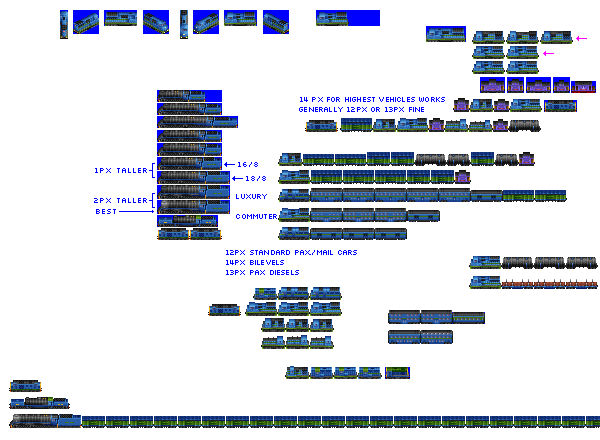
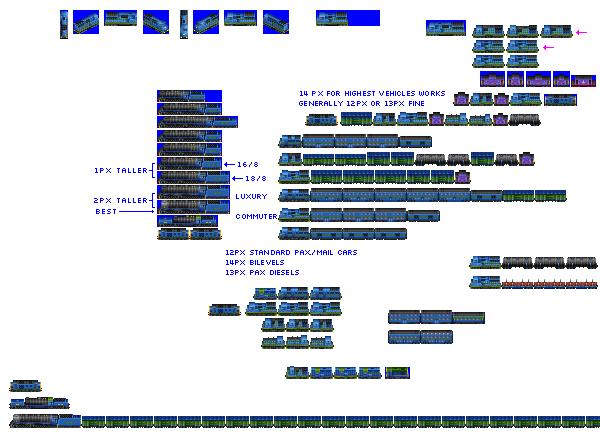
Change: progress on Moose roster

Changed region(s): [[0.45, 0.0295, 1.0, 0.3545]]

diff --git a/src/docs_templates/local_docs_root.html b/src/docs_templates/local_docs_root.html
@@ -3,7 +3,7 @@
 <ul>
     <li style="padding:10px;"><a href="iron-horse/html/tech_tree_table_red.html">Horse Tech Tree</a></li>
     <li style="padding:10px;"><a href="iron-ibex/html/tech_tree_table_red.html">Ibex Tech Tree</a></li>
-    <li style="padding:10px;"><a href="iron-ibex/html/tech_tree_table_red.html">Moose Tech Tree</a></li>
+    <li style="padding:10px;"><a href="iron-moose/html/tech_tree_table_red.html">Moose Tech Tree</a></li>
 </ul>
 </body>
 </html>

diff --git a/src/rosters/moose.py b/src/rosters/moose.py
@@ -4,17 +4,19 @@ from roster import Roster
 engine_module_names = [
     # challenger, # for NA roster
     # branch express
-    # foo,
+    "f40ph",
     # express (electro-diesels with non-standard position in power/length tree)
     # foo,
     # express
-    # foo,
+    "sdp40f",
+    "u28cg",
     # driving cab cars
     # foo,
     # branch freight
     "niagra",
     # freight
-    # foo,
+    "sd45",
+    "u36c",
     # joker engines / snowploughs
     "snowplough_moose_gen_2",
     # cargo sprinter
@@ -52,14 +54,13 @@ def main():
         str_grf_name="Iron Moose",
         # ELRL, ELNG is mapped to RAIL, NG etc
         # default intro dates per generation, can be over-ridden if needed by setting intro_year kw on consist
+        # Moose RAIL runs 10 years later than Horse, and is pinned to IRL UP Big Boy (1940) and UP Centennial (1970)
         intro_years={
-            "RAIL": [1860, 1900, 1930, 1960, 1990, 2020],
+            "RAIL": [1860, 1910, 1940, 1970, 2000, 2030],
             "METRO": [1900, 1950, 2000],
             "NG": [1860, 1905, 1950, 2000],
         },
         # default speeds per generation, can be over-ridden if needed by setting speed kw arg on consist
-        # speeds roughly same as RH trucks of same era + 5mph or so, and a bit higher at the top end (back and forth on this many times eh?),
-        # NG is Corsican-style 1000mm, native brit NG is not a thing for gameplay
         speeds={
             "RAIL": {
                 # gen 5 and 6 held down by design, really fast freight is imbalanced
@@ -73,19 +74,27 @@ def main():
                 ],
                 # match standard, except gen 6
                 "suburban": [45, 45, 60, 75, 87, 99],
-                # smaller steps in gen 5 and 6, balances against faster HSTs
+                # smaller steps in gen 5 and 6, balances against faster High Speed Rail
                 "express": [
                     60,
                     75,
                     90,
                     105,
-                    115,
-                    125,
+                    120,
+                    120,
                 ],
-                "hst": [0, 0, 0, 112, 125, 125],
-                "hst_on_lgv": [0, 0, 0, 112, 125, 140],
-                "very_high_speed": [0, 0, 0, 0, 125, 125],
-                "very_high_speed_on_lgv": [0, 0, 0, 0, 140, 186],
+                "express_on_lgv": [
+                    0,
+                    0,
+                    0,
+                    0,
+                    140,
+                    140,
+                ],
+                "hst": [0, 0, 0, 112, 128, 128],
+                "hst_on_lgv": [0, 0, 0, 0, 140, 140],
+                "very_high_speed": [0, 0, 0, 0, 128, 128],
+                "very_high_speed_on_lgv": [0, 0, 0, 0, 155, 186],
             },
             "METRO": {
                 "standard": [45, 55, 65]
@@ -95,14 +104,14 @@ def main():
                 "standard": [
                     45,
                     45,
-                    55,
-                    65,
+                    60,
+                    60,
                 ],
                 # NG standard/suburban/express same in Pony, balanced against trams, RVs
                 # suburban has to be provided as the mail railcar expects it, just copying it in is easiest solution
-                "suburban": [45, 45, 55, 65],
-                # suburban has to be provided as the coaches/mail vans etc expect it, just copying it in is easiest solution
-                "express": [45, 45, 55, 65],
+                "suburban": [45, 45, 60, 75],
+                # NG express breaks from standard in gen 4
+                "express": [45, 45, 60, 75],
             },
         },
         # capacity factor per generation, will be multiplied by vehicle length

diff --git a/src/vehicles/moose/f40ph.py b/src/vehicles/moose/f40ph.py
@@ -1,0 +1,30 @@
+from train import EngineConsist, DieselEngineUnit
+
+
+def main(roster_id, **kwargs):
+    consist = EngineConsist(
+        roster_id=roster_id,
+        id="f40ph",
+        base_numeric_id=22010,
+        name="F40PH",
+        role="branch_express",
+        role_child_branch_num=1,
+        power_by_power_source={
+            "DIESEL": 1800,
+        },
+        random_reverse=True,
+        fixed_run_cost_points=140,  # substantial cost bonus as a mixed traffic engine
+        gen=4,
+        # note that livery names are metadata only and can repeat for different spriterows
+        additional_liveries=[],
+        sprites_complete=False,
+    )
+
+    consist.add_unit(
+        type=DieselEngineUnit, weight=110, vehicle_length=6, spriterow_num=0
+    )
+
+    consist.description = """"""
+    consist.foamer_facts = """"""
+
+    return consist

diff --git a/src/vehicles/moose/sd45.py b/src/vehicles/moose/sd45.py
@@ -1,0 +1,33 @@
+from train import EngineConsist, DieselEngineUnit
+
+
+def main(roster_id, **kwargs):
+    consist = EngineConsist(
+        roster_id=roster_id,
+        id="sd45",
+        base_numeric_id=22020,
+        name="SD45",
+        role="super_heavy_freight",
+        role_child_branch_num=-2,
+        power_by_power_source={
+            "DIESEL": 3600,  # first high HP diesel in this roster??
+        },
+        random_reverse=True,
+        gen=4,
+        # note that livery names are metadata only and can repeat for different spriterows
+        additional_liveries=[],
+        sprites_complete=False,
+    )
+
+    consist.add_unit(
+        type=DieselEngineUnit,
+        weight=160,
+        vehicle_length=8,
+    )
+
+    consist.description = """"""
+    consist.foamer_facts = (
+        """"""
+    )
+
+    return consist

diff --git a/src/vehicles/moose/u36c.py b/src/vehicles/moose/u36c.py
@@ -1,0 +1,33 @@
+from train import EngineConsist, DieselEngineUnit
+
+
+def main(roster_id, **kwargs):
+    consist = EngineConsist(
+        roster_id=roster_id,
+        id="u36c",
+        base_numeric_id=22030,
+        name="U36C",
+        role="super_heavy_freight",
+        role_child_branch_num=-3,
+        power_by_power_source={
+            "DIESEL": 3600,  # first high HP diesel in this roster??
+        },
+        random_reverse=True,
+        gen=4,
+        # note that livery names are metadata only and can repeat for different spriterows
+        additional_liveries=[],
+        sprites_complete=False,
+    )
+
+    consist.add_unit(
+        type=DieselEngineUnit,
+        weight=160,
+        vehicle_length=8,
+    )
+
+    consist.description = """"""
+    consist.foamer_facts = (
+        """"""
+    )
+
+    return consist

diff --git a/src/vehicles/moose/u28cg.py b/src/vehicles/moose/u28cg.py
@@ -1,0 +1,33 @@
+from train import EngineConsist, DieselEngineUnit
+
+
+def main(roster_id, **kwargs):
+    consist = EngineConsist(
+        roster_id=roster_id,
+        id="u28cg",
+        base_numeric_id=22050,
+        name="u28cg / u30gc",
+        role="heavy_express",
+        role_child_branch_num=-3,
+        power_by_power_source={
+            "DIESEL": 2800, # nerfed to account for HEP
+        },
+        random_reverse=True,
+        gen=4,
+        # note that livery names are metadata only and can repeat for different spriterows
+        additional_liveries=[],
+        sprites_complete=False,
+    )
+
+    consist.add_unit(
+        type=DieselEngineUnit,
+        weight=160,
+        vehicle_length=8,
+    )
+
+    consist.description = """"""
+    consist.foamer_facts = (
+        """"""
+    )
+
+    return consist

diff --git a/src/vehicles/moose/sdp40f.py b/src/vehicles/moose/sdp40f.py
@@ -1,0 +1,33 @@
+from train import EngineConsist, DieselEngineUnit
+
+
+def main(roster_id, **kwargs):
+    consist = EngineConsist(
+        roster_id=roster_id,
+        id="sdp40f",
+        base_numeric_id=22040,
+        name="sdp40f",
+        role="heavy_express",
+        role_child_branch_num=-2,
+        power_by_power_source={
+            "DIESEL": 2800, # nerfed to account for HEP
+        },
+        random_reverse=True,
+        gen=4,
+        # note that livery names are metadata only and can repeat for different spriterows
+        additional_liveries=[],
+        sprites_complete=False,
+    )
+
+    consist.add_unit(
+        type=DieselEngineUnit,
+        weight=160,
+        vehicle_length=8,
+    )
+
+    consist.description = """"""
+    consist.foamer_facts = (
+        """"""
+    )
+
+    return consist
